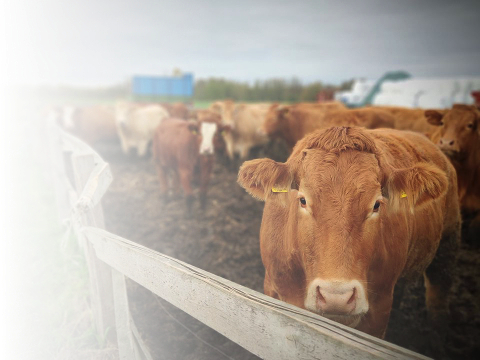
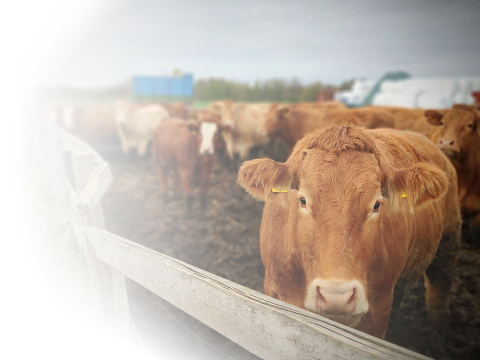
Updated background images

Changed region(s): [[0.0938, 0.7944, 0.5625, 1.0]]

diff --git a/latowicz/styles.css b/latowicz/styles.css
@@ -298,6 +298,14 @@ ol{
     }
 }
 
+@media screen and (min-width: 960px) {
+    .site-nav ul {
+        background-image: url("images/background-small.jpg");
+        background-repeat: no-repeat;
+        background-position: right;
+    }
+}
+
 @media screen and (min-width: 1200px) {
     .site-nav ul {
         background-image: url("images/background.jpg");
